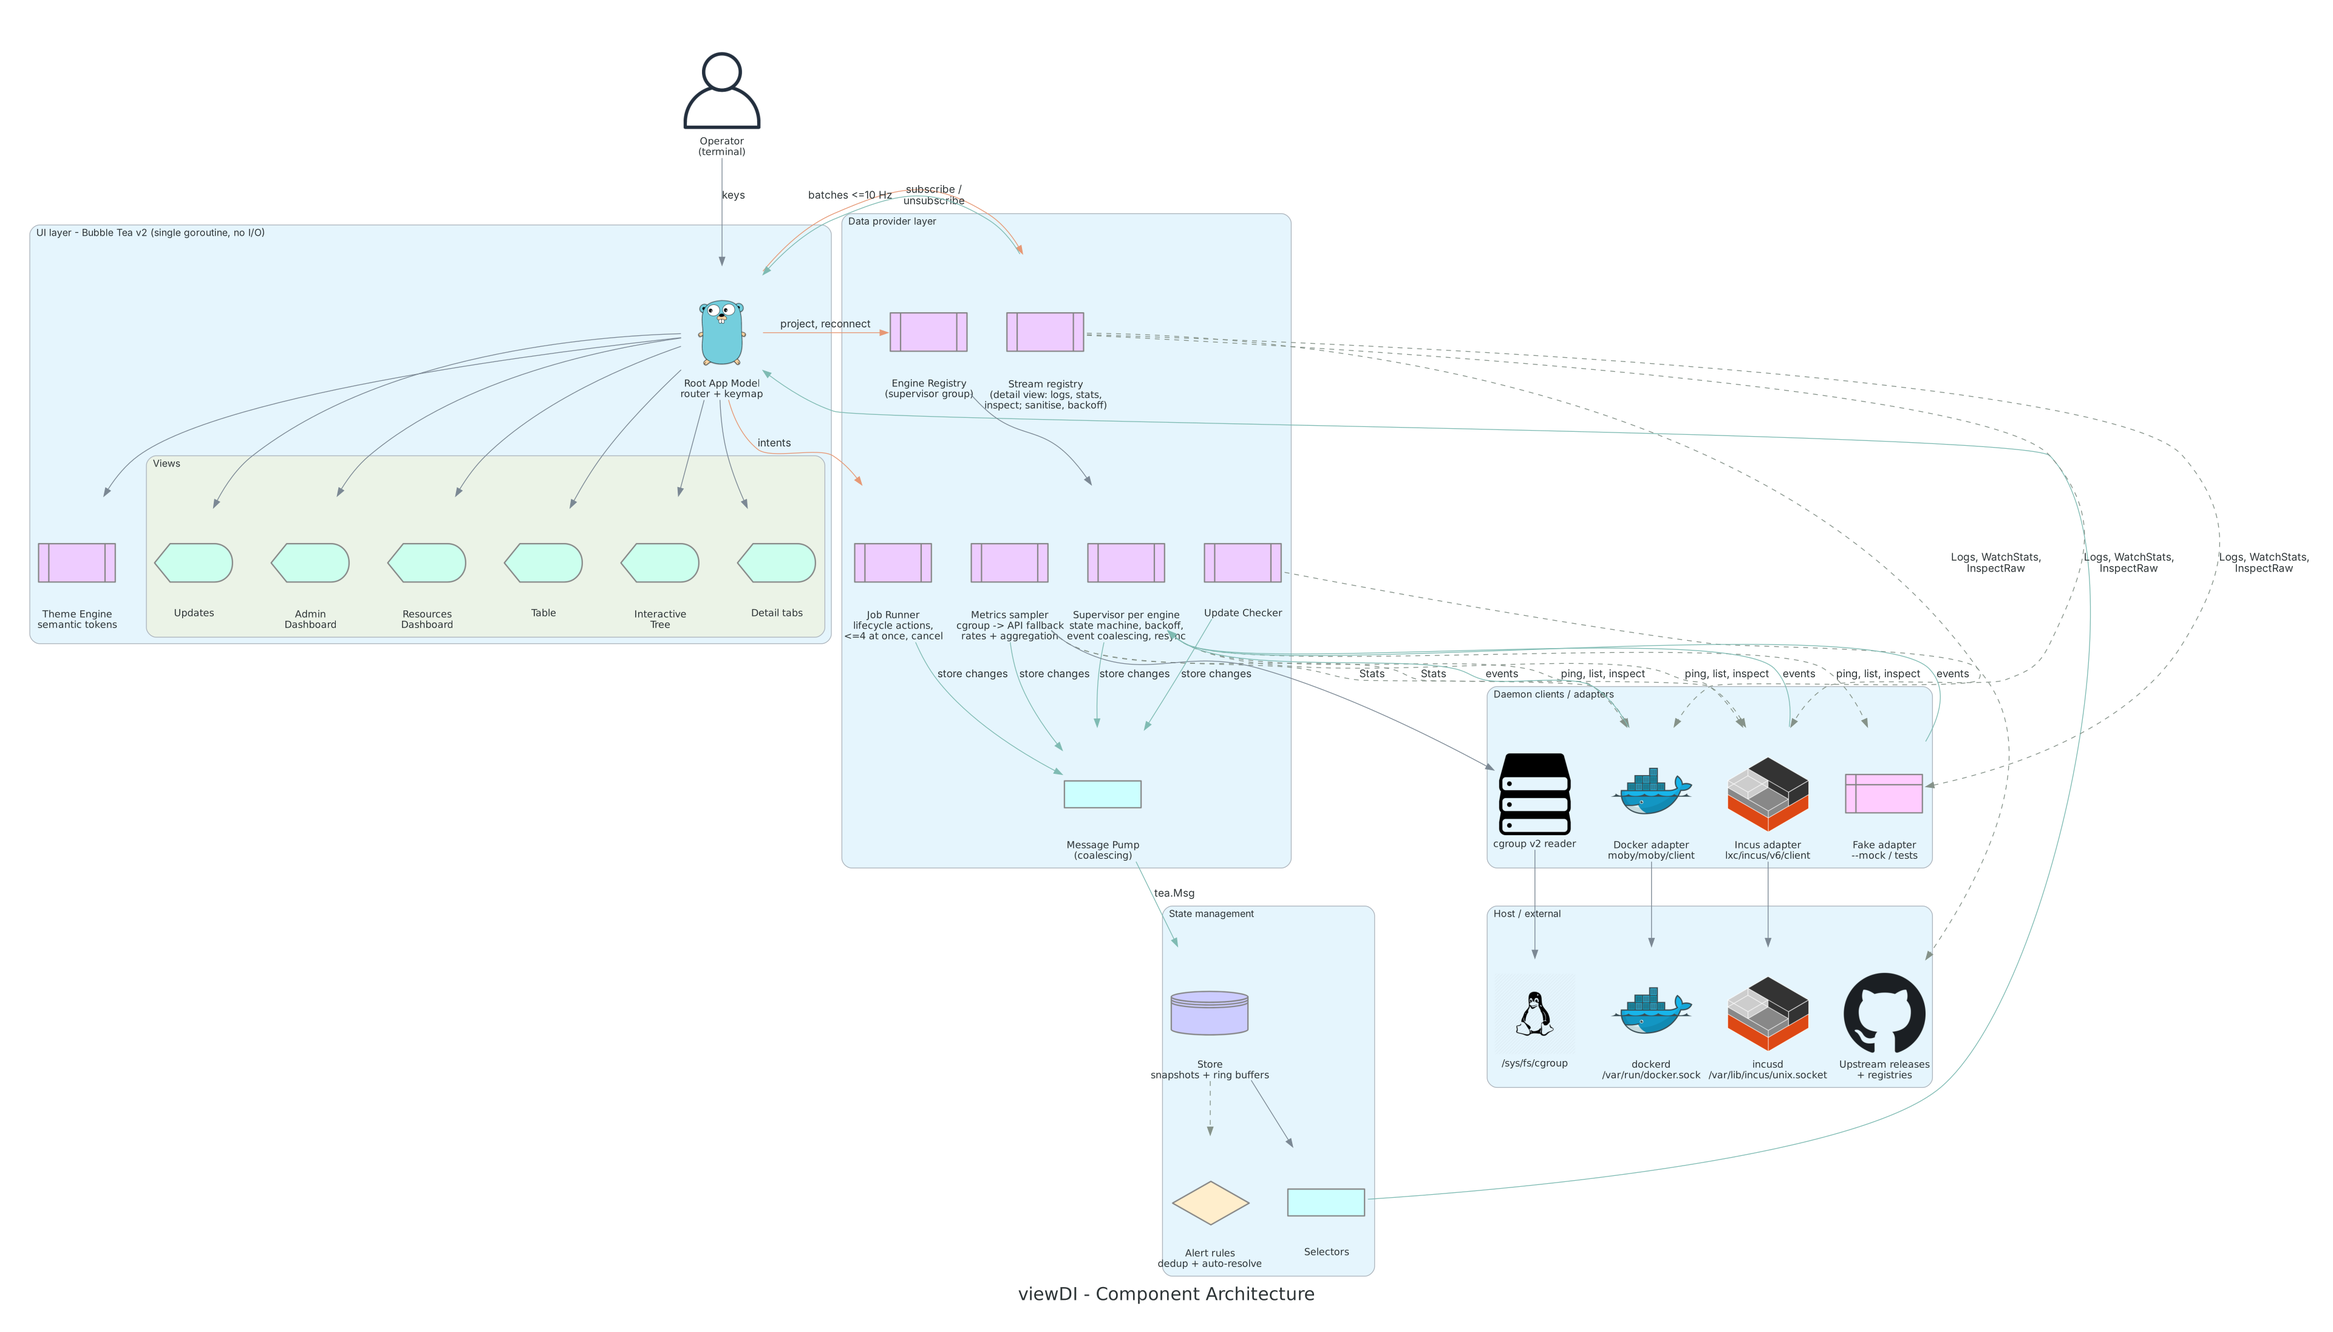
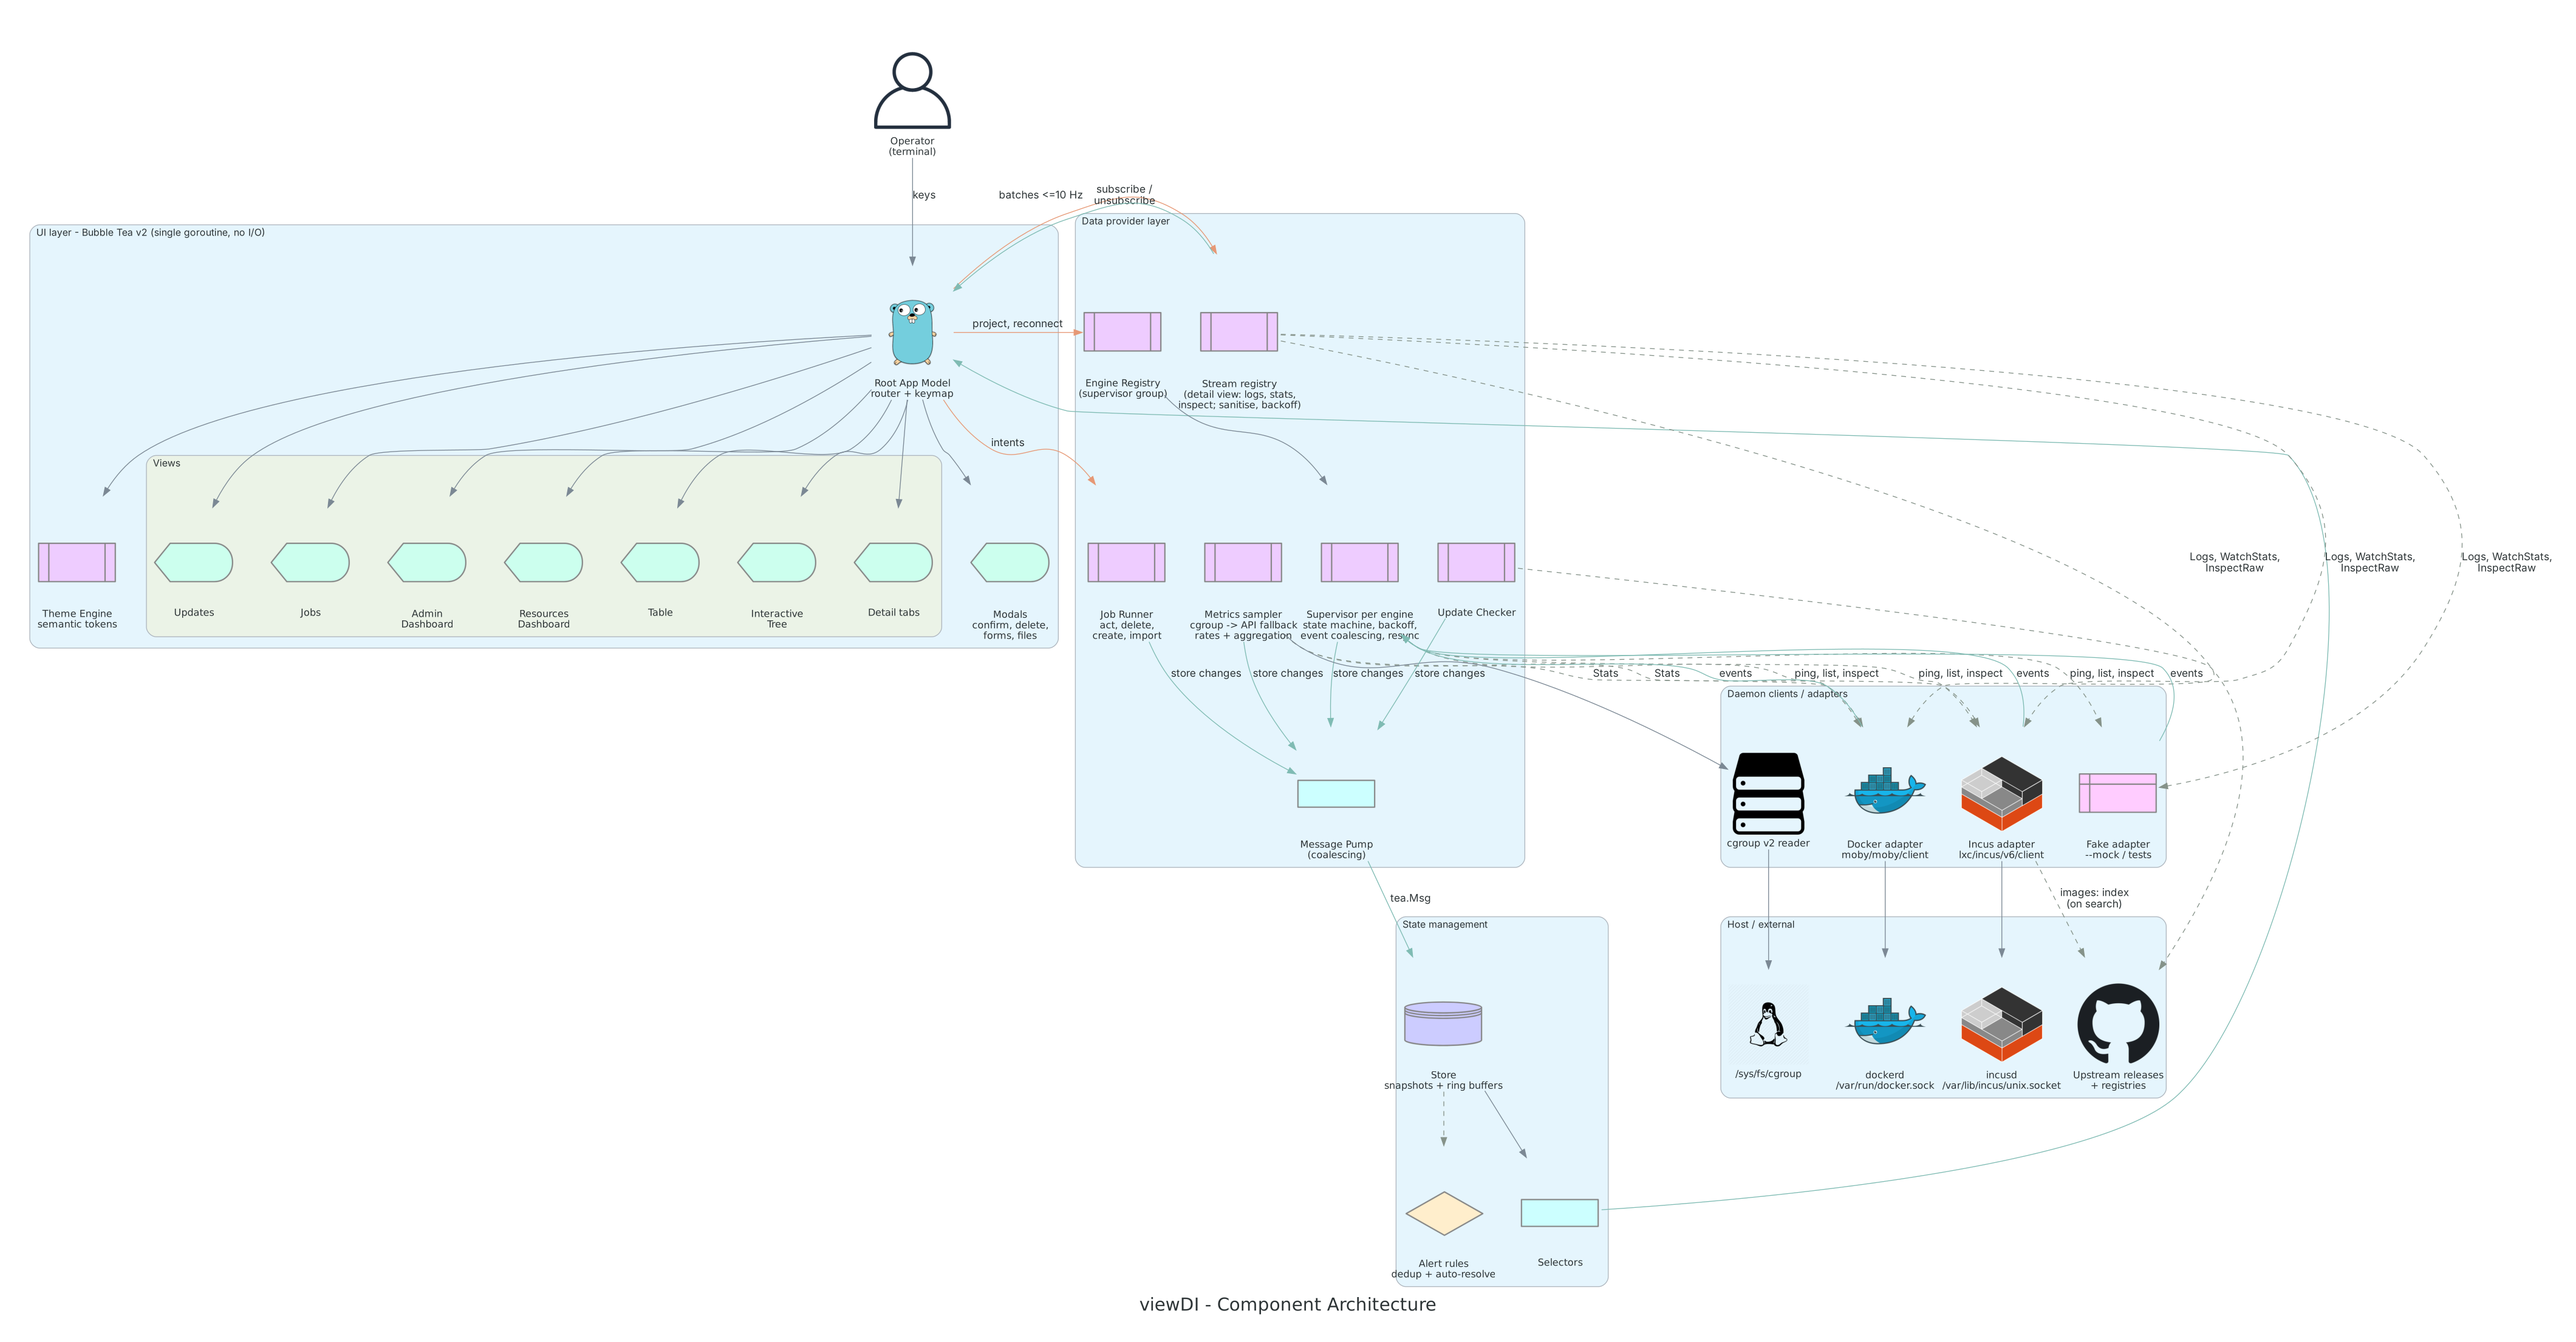
docs: Stage 4b notes, create/import architecture, key map, demo

diff --git a/docs/diagrams/generate.py b/docs/diagrams/generate.py
@@ -77,7 +77,9 @@ def architecture() -> None:
                     Display("Interactive\nTree"),
                     Display("Detail tabs"),
                     Display("Updates"),
+                    Display("Jobs"),
                 ]
+            modals = Display("Modals\nconfirm, delete,\nforms, files")
 
         with Cluster("State management"):
             store = Database("Store\nsnapshots + ring buffers")
@@ -89,7 +91,7 @@ def architecture() -> None:
             streams = PredefinedProcess("Stream registry\n(detail view: logs, stats,\ninspect; sanitise, backoff)")
             supervisor = PredefinedProcess("Supervisor per engine\nstate machine, backoff,\nevent coalescing, resync")
             metrics = PredefinedProcess("Metrics sampler\ncgroup -> API fallback\nrates + aggregation")
-            jobs = PredefinedProcess("Job Runner\nlifecycle actions,\n<=4 at once, cancel")
+            jobs = PredefinedProcess("Job Runner\nact, delete,\ncreate, import")
             updates = PredefinedProcess("Update Checker")
             pump = Action("Message Pump\n(coalescing)")
 
@@ -108,6 +110,7 @@ def architecture() -> None:
         user >> Edge(label="keys") >> app
         app >> theme
         app >> views
+        app >> modals
         selectors >> Edge(color=DATA) >> app
         store >> selectors
         store >> Edge(style="dashed", color=MUTED) >> alert_rules
@@ -124,6 +127,7 @@ def architecture() -> None:
         metrics >> cgroup
         metrics >> Edge(label="Stats", style="dashed", color=MUTED) >> [docker_ad, incus_ad]
         updates >> Edge(style="dashed", color=MUTED) >> upstream
+        incus_ad >> Edge(label="images: index\n(on search)", style="dashed", color=MUTED) >> upstream
 
         [supervisor, metrics, jobs, updates] >> Edge(label="store changes", color=DATA) >> pump
         pump >> Edge(label="tea.Msg", color=DATA) >> store

diff --git a/docs/03-mockups.md b/docs/03-mockups.md
@@ -29,7 +29,7 @@ as it is not reserved.
 | `1`–`6` | Admin / Resources / Table / Tree / Jobs / Updates | `enter` | Open detail / confirm |
 | `tab` / `shift+tab` | Next / prev tab or pane | `esc` | Back / close modal |
 | `/` | Filter (current view) | `e` | Cycle engine filter (all/docker/incus) |
-| `n` | New container (form) | `i` | Import |
+| `n` | Create a container / VM (form) | `i` | Import an image or backup |
 | `U` | Check for updates now | `P` | Incus project selector |
 | `T` | Theme picker | `?` | Help overlay |
 | `ctrl+r` | Force reconnect/resync | `ctrl+d` | Debug overlay (`--debug` only) |
@@ -296,3 +296,45 @@ New-container form: engine selector → fields adapt (Docker: image, name, ports
 volumes, network, restart policy · Incus: image source/alias, name, type ctr/vm,
 profiles, CPU/memory limits, network). Import: file picker + type (Docker image tarball,
 Docker rootfs import, Incus backup, Incus image) with a progress bar in Jobs.
+
+As delivered in Stage 4b:
+
+```
+╭────────────────────────────────────────────────────────────────╮
+│  Create a Docker container                                     │
+│  on Docker 29.0.1 · the job's progress shows in Jobs (5)       │
+│                                                                │
+│  Image        n_                                               │
+│               ctrl+n/p local images · ctrl+f searches registry │
+│               9 local images                                   │
+│               ▸ nginx:1.27                                     │
+│                 node:22-alpine                                 │
+│  Pull         [ ] pull the image first                         │
+│  Name         picked by Docker                                 │
+│  Ports        8080:80, 127.0.0.1:5432:5432, 53:53/udp          │
+│  Environment  KEY=value, OTHER=x        (secrets masked)       │
+│  Volumes      data:/var/lib/data, /srv/conf:/etc/app:ro        │
+│  Network      default bridge                                   │
+│  Restart      ◂ no ▸                                           │
+│  Labels       tier=web, owner=me                               │
+│  Start        [x] start the container once created             │
+│                 Cancel    Create                               │
+╰────────────────────────────────────────────────────────────────╯
+╭──────────────────────────────────────────────────────────────╮
+│  Import Incus image: choose a file                           │
+│  /home/me/images                                             │
+│  showing *.tar.gz, *.tar.xz, *.tar.zst, *.tar, *.squashfs    │
+│  ▸ ../                                                       │
+│  ▸ old/                                                      │
+│    custom.tar.gz                                     214.3M  │
+│  enter open/choose · ⌫ parent · ~ home · a all · . hidden    │
+╰──────────────────────────────────────────────────────────────╯
+Jobs:  ● running  create new-web   dock  14:03:30  3.2s  pulling ▕█████████░░░░░▏ 45%
+       ✓ done     import custom…   incus 14:03:30   1s   → custom/app
+```
+
+Form keys: `tab`/`↓` next field, `shift+tab`/`↑` previous, `←`/`→` option, `space` tick,
+`ctrl+n`/`ctrl+p` cycle suggestions, `ctrl+f` search remote images, `enter` submit,
+`esc` cancel; text fields also take `ctrl+a`/`ctrl+e`, `ctrl+w`, `ctrl+u`, `ctrl+k`.
+File picker keys: `↑`/`↓`, `enter` open/choose, `backspace` parent, `~` home, `a` all
+files, `.` hidden files, `esc` cancel.

diff --git a/docs/02-architecture.md b/docs/02-architecture.md
@@ -43,8 +43,9 @@ Each adapter implements the same capability set. Expressed here as a contract ta
 | `Inspect` | `ContainerInspect` | `GetInstance` + `GetInstanceState` |
 | `Act(start/stop/restart/pause/unpause)` | container endpoints (409 → conflict) | state check, then `UpdateInstanceState` + `/operations/{id}/wait` |
 | `Delete(opts)` | `ContainerRemove` (force, anonymous volumes) | state check, optional stop, `DeleteInstance` + wait |
-| `Create(spec)` | `ContainerCreate` + `ContainerStart` | `CreateInstance` + start |
-| `Import(source)` | `ImageLoad` / `ImageImport` | `CreateInstanceFromBackup` / image import |
+| `Images` / `SearchImages(q)` | `ImageList` / `ImageSearch` (registry) | `GetImages` / the `images:` remote's simplestreams index (cached 1 h, host arch) |
+| `Create(spec, progress)` | optional `ImagePull` (layer progress) + `ContainerCreate` + start | `CreateInstance` (local alias or `images:` remote) + operation progress + start |
+| `Import(spec, progress)` | `ImageLoad` (image tarball) / `ImageImport` (rootfs + reference), upload progress | `CreateInstanceFromBackup` / `CreateImage` (alias optional), upload + operation progress |
 | `InspectRaw` | `ContainerInspect` raw JSON | `GetInstanceFull` |
 | `Logs(opts)` | `ContainerLogs(follow, timestamps)` + frame demux | console log + `lxc.log`/`qemu.log`, polled and diffed |
 | `WatchStats(interval)` | `ContainerStats(stream=true)` | `GetInstanceState` poll |
@@ -113,6 +114,16 @@ until the engine's events show the expected state (or a new start time after res
 after 10 s without confirmation the app warns and resyncs. A failed or canceled job
 clears the mark and toasts the daemon's reason. Actions already in effect succeed;
 states that forbid an action are reported as conflicts.
+
+Creates and imports are jobs too (30-minute bound, no pending mark). `n` opens a form
+modal (`ui/components/form`: text fields with validation and suggestions, selects,
+checkboxes) for the chosen engine; its image suggestions come from `Images`, loaded in a
+command when the form opens, and `ctrl+f` runs `SearchImages` in another. `i` picks the
+import kind, then a file picker (`ui/components/files`, listings read in commands) and a
+short form for what the kind still needs. Adapters report progress (pull, download,
+upload, unpack) through a callback that the runner throttles to one update per 100 ms per
+job; the Jobs view shows it as a bar, then the result (container ID, image, instance),
+which a toast repeats.
 
 ### 4.5 Update checker
 

diff --git a/docs/04-development-plan.md b/docs/04-development-plan.md
@@ -335,6 +335,34 @@ Delivered notes, Stage 4a (2026-10-29):
   flows, dialog unit tests, golden frames.
 - Demo: `docs/demos/stage-4a.tape` → `docs/demos/stage-4a.gif`.
 
+Delivered notes, Stage 4b (2026-10-29):
+- Engine contract: `Images`, `SearchImages`, `Create(spec, progress)` and
+  `Import(spec, progress)`, with spec parsers and validators in `internal/engine`
+  (ports, env, volumes, labels, names, image references, memory sizes; fuzzed). Docker:
+  optional pull with summed layer progress, `ContainerCreate`, start; `docker load` and
+  `docker import` with upload progress. Incus: create from a local alias or
+  `images:<alias>` (download progress from the operation), search through the remote's
+  simplestreams index (fetched on demand, capped at 64 MiB, cached 1 h, filtered to the
+  host architecture); backup and image import with upload and operation progress. The
+  contract suite covers images, search, create (duplicate name → conflict, missing image
+  → not found) and every import kind on every backend; adapter unit tests cover request
+  mapping, pull progress, load results and simplestreams parsing.
+- Jobs: creates and imports run as jobs (30-minute bound, no pending mark) whose
+  progress is throttled to 100 ms; the Jobs view shows a bar or the result, and a toast
+  names what was made.
+- UI: a reusable form modal (validation on leave and submit, substring suggestions,
+  remote search, secrets masked when unfocused, scrolling on small screens) and a file
+  picker modal (listings in commands, extension filter, hidden files, names sanitised).
+  `n` → engine choice → create form; `i` → import kind → file → remaining fields.
+  `--read-only`, restricted connections and disconnected engines are explained in a
+  toast instead.
+- Tests: driver flows for both forms and an import, golden frames (forms, file picker,
+  Jobs progress), `TestCreateThroughTheProgram` and `TestDaemonDiesMidCreate` (the job
+  fails, nothing half-made remains, the UI keeps working).
+- Still to check on a real host: pulls from private registries, VM creation, imports of
+  large backups (the upload is streamed, never buffered).
+- Demo: `docs/demos/stage-4b.tape` → `docs/demos/stage-4b.gif`.
+
 ---
 
 ## Stage 5 — Interactive Tree View

diff --git a/README.md b/README.md
@@ -3,13 +3,14 @@
 A native Linux terminal UI that manages, visualises and monitors **Docker** and **Incus**
 side by side.
 
-> Status: **Stage 4a** — both engines connected with live metrics: Admin and Resources
+> Status: **Stage 4b** — both engines connected with live metrics: Admin and Resources
 > dashboards, a sortable, filterable Table view, a Detail view per instance (`enter`) with
-> live logs, inspect tree and charts, and lifecycle actions: start, stop, restart,
-> pause/resume and delete (with a confirmation dialog), tracked in the Jobs view (`5`).
-> Create forms and import arrive in Stage 4b. See `docs/04-development-plan.md`.
+> live logs, inspect tree and charts, lifecycle actions (start, stop, restart,
+> pause/resume, delete with a confirmation dialog), create forms for Docker containers
+> and Incus containers/VMs, and imports of image tarballs and backups, all tracked with
+> progress in the Jobs view (`5`). See `docs/04-development-plan.md`.
 
-![Stage 4a demo](docs/demos/stage-4a.gif)
+![Stage 4b demo](docs/demos/stage-4b.gif)
 
 ## Build and run
 
@@ -30,7 +31,10 @@ goes back; in Logs `p` pauses, `/` filters (regex), `S` cycles stdout/stderr, `w
 `G`/`gg` jump; in Inspect `←`/`→` fold, `/` searches, `y` copies the path; in Overview
 `v` reveals a masked value. Actions: `s` start, `x` stop, `R` restart, `F` pause/resume,
 `d` delete — on the rows marked with `space`, or the selected instance; `5` lists the jobs
-and `c` cancels one. `--read-only` disables every action. `--mock=chaos` cycles through daemon failures,
+and `c` cancels one. `n` creates a container or VM: a form with local image suggestions
+(`ctrl+n`/`ctrl+p`), registry or `images:` search (`ctrl+f`), ports, environment, volumes,
+limits and more. `i` imports a Docker image or rootfs tarball, an Incus backup or an
+Incus image through a file picker. `--read-only` disables every action. `--mock=chaos` cycles through daemon failures,
 `--mock=logflood` floods a log at 1 000 lines/s.
 
 Metrics are read from cgroup v2 files when possible (one pass for every container) and

diff --git a/CLAUDE.md b/CLAUDE.md
@@ -34,7 +34,7 @@ Design documents (read before making structural changes):
   (F1–F18), performance budgets and rendering techniques.
 - `docs/diagrams/generate.py` — source of every diagram in `docs/img/` (Python `diagrams`).
 
-Current phase: **Stage 4a in progress** (Stage 3 done, `v0.4.0`). Do not start
+Current phase: **Stage 4b in progress** (Stage 4a done, `v0.5.0`). Do not start
 implementing a stage until the user validates its task list in `docs/04-development-plan.md`
 (Stage 0 validated 2026-10-28, Stages 1–4 validated 2026-10-29).
 
@@ -72,8 +72,8 @@ viewDI/
 │   │   ├── components/     # tabbar, table, tree (navigable, virtualised), inspector,
 │   │   │                   # logview, jsontree, secret, sparkline (+ charts), gauge,
 │   │   │                   # panel, header, debugoverlay,
-│   │   │                   # modal (+ confirm), themepicker, form, banner, toast,
-│   │   │                   # statusbar, help
+│   │   │                   # modal (+ confirm, delete), picker, themepicker, form,
+│   │   │                   # files (file picker), banner, toast, statusbar, help
 │   │   ├── layout/         # responsive breakpoints, exact-size helpers
 │   │   ├── keys/           # key bindings (bubbles/key), overridable via keys.toml
 │   │   ├── theme/          # semantic tokens, palette loading, style cache
